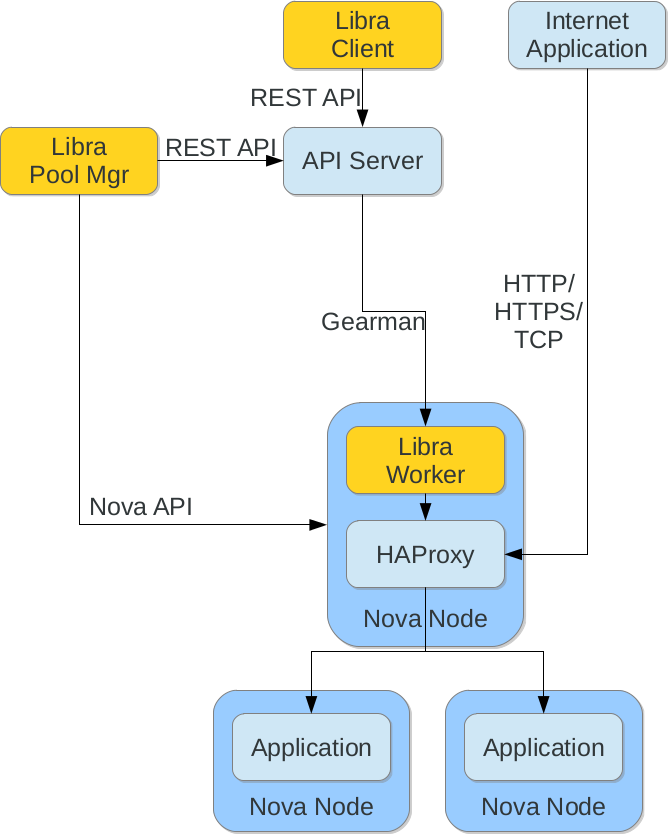
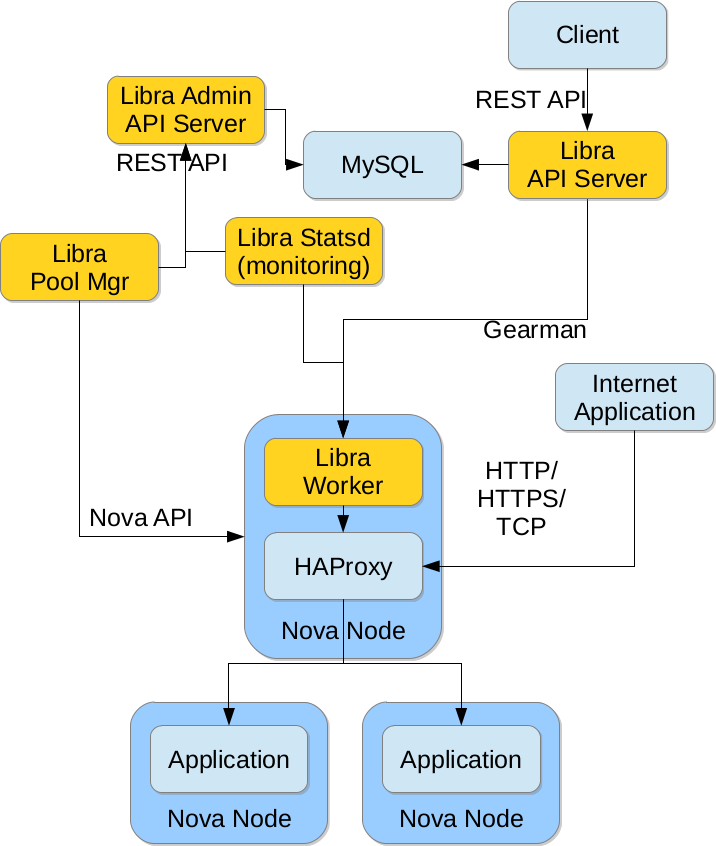
Some documentation updates

diff --git a/doc/conf.py b/doc/conf.py
@@ -42,8 +42,8 @@ source_suffix = '.rst'
 master_doc = 'index'
 
 # General information about the project.
-project = u'LBaaS Worker and Pool Manager'
-copyright = u'2012, Andrew Hutchings, David Shrewsbury'
+project = u'Libra LBaaS Toolset'
+copyright = u'2013, Hewlett-Packard Development Company, L.P.'
 
 # The version info for the project you're documenting, acts as replacement for
 # |version| and |release|, also used in various other places throughout the
@@ -190,8 +190,8 @@ htmlhelp_basename = 'LBaaSdoc'
 # (source start file, target name, title, author,
 # documentclass [howto/manual]).
 latex_documents = [
-    ('index', 'Libra-{0}.tex'.format(version), u'Libra Client, Worker and Pool Manager Documentation',
-        u'Andrew Hutchings and David Shrewsbury', 'manual'),
+    ('index', 'Libra-{0}.tex'.format(version), u'Libra LBaaS Toolset Documentation',
+        u'Hewlett-Packard Development Company, L.P.', 'manual'),
 ]
 
 #pdf_documents = [('index', 'Libra-{0}'.format(version), u'Libra Client, Worker and Pool Manager Documentation', u'Andrew Hutchings and David Shrewsbury')]
@@ -229,6 +229,6 @@ latex_documents = [
 # One entry per manual page. List of tuples
 # (source start file, name, description, authors, manual section).
 man_pages = [
-    ('index', 'lbaas', u'LBaaS Worker and Pool Manager',
-     [u'Andrew Hutchings and David Shrewsbury'], 1)
+    ('index', 'lbaas', u'Libra LBaaS Toolset',
+     [u'Hewlett-Packard Development Company, L.P.'], 1)
 ]

diff --git a/doc/introduction.rst b/doc/introduction.rst
@@ -2,14 +2,16 @@ Introduction
 ============
 
 Libra is a Load Balancer as a Service (LBaaS) system originally designed by
-Hewlett-Packard Cloud Services.  It consists of three of the core components
+Hewlett-Packard Cloud Services.  It consists of five core components
 required to get LBaaS working:
 
 * A node pool manager to keep a warm spare pool of load balancers ready
 * A node worker to asyncronusly communicate to the API server
+* A monitoring system for the load balancers
+* A customer API server
+* An administrative API server
 
-It does not (yet) include the API server itself or HAProxy.  The API server is
-based on the Atlas API system but communicates to the workers using gearman.
+The API server is based on a modified version of the Atlas API specification.
 
 Layout
 ------
@@ -18,11 +20,14 @@ Layout
 
 Here you can see that the pool manager spins up the required Nova nodes with
 the load balancer image.  It then hands the details of this node over the the
-API server.
+Admin API server.
 
-The client sends an Atlas API request to the API server which in-turn sends the
+The client sends an API request to the API server which in-turn sends the
 configuration information to the worker on the load balancer node.  The worker
-has a plugin API to speak to multiple load balancer types but is currently
+has a plugin system to speak to multiple load balancer types but is currently
 designed to use HAProxy.
+
+The statsd monitoring system routinely probes the workers and can alert on as
+well as disable faulty nodes.
 
 The parts of this diagram in orange are provided by the libra codebase.

diff --git a/doc/api/api.rst b/doc/api/api.rst
@@ -1,10 +1,6 @@
 Load Balancer as a Service (LBaaS) API Specification
 ====================================================
 
-**Date:** February 8, 2013
-
-**Document Version:** 0.6
-
 1. Overview
 -----------
 
@@ -1254,7 +1250,9 @@ None required.
 13.5 Required HTTP Header Values
 ~~~~~~~~~~~~~~~~~~~~~~~~~~~~~~~~
 
-**X-Auth-Token**
+- **X-Auth-Token**
+- **Accept: application/json**
+- **Content-Type: application/json**
 
 13.6 Request Body
 ~~~~~~~~~~~~~~~~~
@@ -2278,13 +2276,13 @@ Features Currently Not Implemented or Supported
 
 The following features are not supported.
 
-1. Node 'weight' values are not supported.
+1. IPV6 address types are not supported.
 
-2. IPV6 address types are not supported.
+2. HTTPS protocol for load balancers are not supported. It is not
+   advertised in /protocols request.  Instead TCP will be used for port 443
+   and the HTTPS connections will be passed through the load balancer with no
+   termination at the load balancer.
 
-3. HTTPS protocol for load balancers are not supported. It is not
-   advertised in /protocols request.
-
-4. The ability to list deleted load balancers is not supported.
+3. The ability to list deleted load balancers is yet not supported.
 
 

diff --git a/doc/admin_api/config.rst b/doc/admin_api/config.rst
@@ -1,5 +1,5 @@
-PI Configuration
-=================
+Admin API Configuration
+=======================
 
 These options are specific to the Admin API in addition to the
 :doc:`common options </config>`.

diff --git a/doc/statsd/index.rst b/doc/statsd/index.rst
@@ -1,5 +1,5 @@
-Statsd Monitoring Daemon
-========================
+Libra Statsd Monitoring Daemon
+==============================
 
 .. toctree::
    :maxdepth: 2
